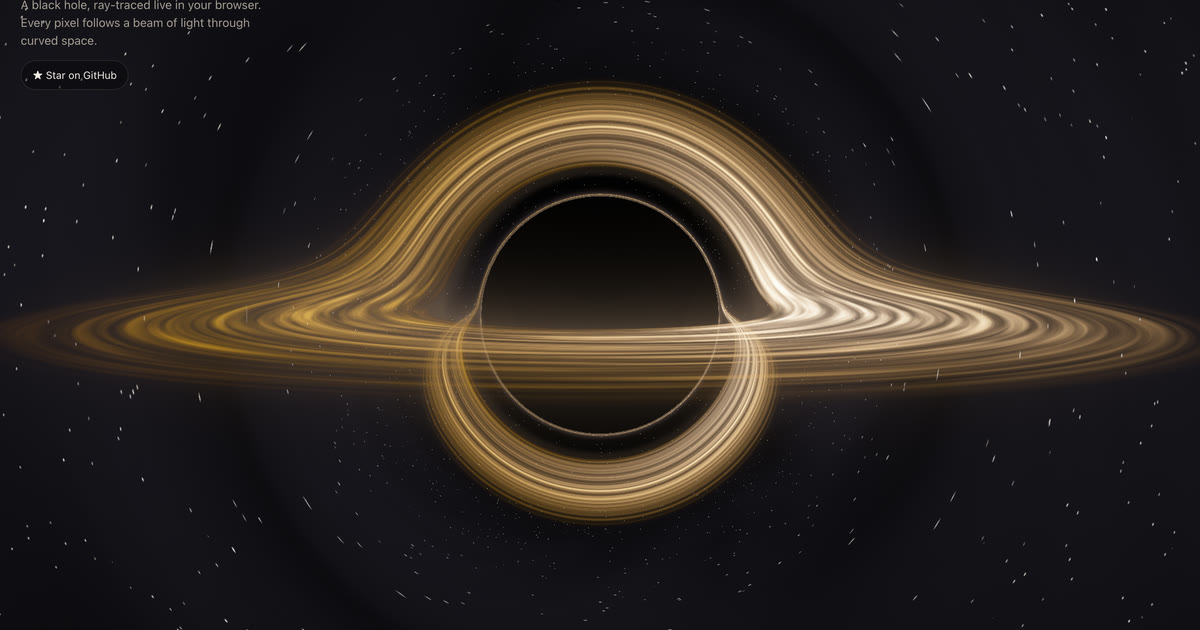
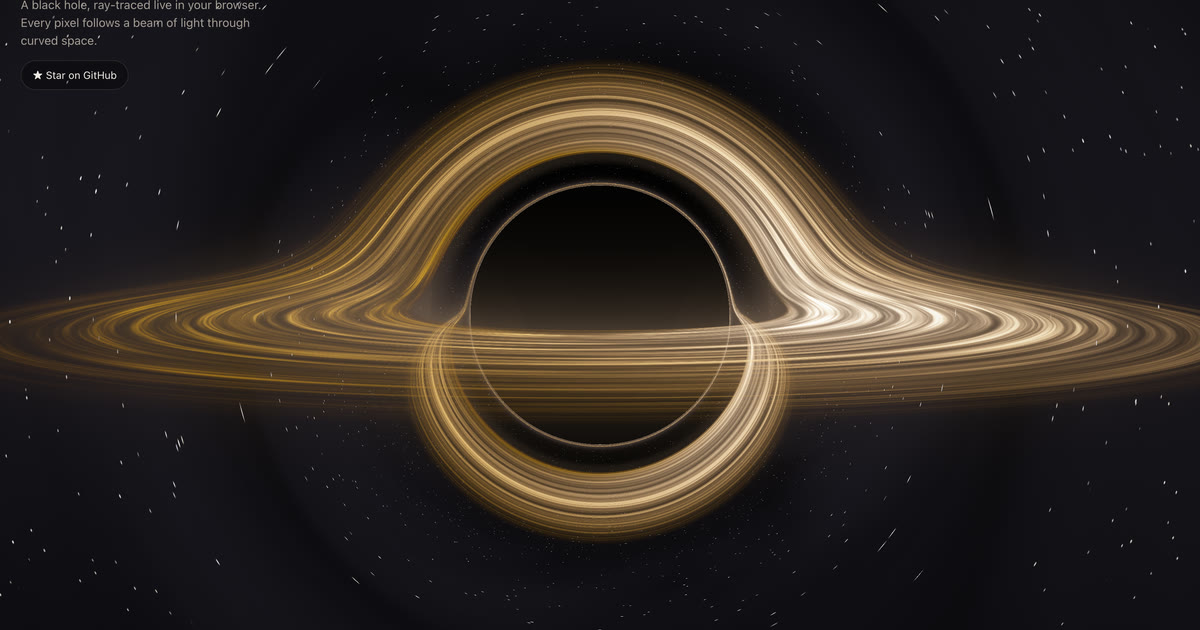
Native Retina resolution (3024x1890 on a 1512-wide MacBook) and fine gas filaments in the sharp image; demo busts the script cache; full-resolution hero still in the README

Changed region(s): [[0.0, 0.0905, 1.0, 0.8746]]

diff --git a/black-hole.js b/black-hole.js
@@ -52,7 +52,15 @@
     '  vec2 q = vec2(cos(a), sin(a)) * 1.25 + vec2(r * 3.1, r * -1.9) + band * 3.17;',
     '  float n = fbm(q);',
     '  float clump = noise(vec2(cos(a), sin(a)) * 2.6 + band * 1.9 + 40.0);',
-    '  return smoothstep(0.18, 0.95, n) * (0.55 + 1.3 * clump);',
+    '  float t = smoothstep(0.18, 0.95, n) * (0.55 + 1.3 * clump);',
+    '#ifdef FINE',
+    // fine filaments: thin streaks along the orbit, sharp gaps between them, and grain across them
+    '  float fil = noise(vec2(cos(a), sin(a)) * 3.0 + vec2(r * 22.0, r * -14.0) + band * 5.3);',
+    '  fil = smoothstep(0.35, 0.75, fil);',
+    '  float grain = noise(vec2(cos(a), sin(a)) * 9.0 + vec2(r * 40.0, 0.0));',
+    '  t *= 0.55 + 0.75 * fil + 0.25 * grain;',
+    '#endif',
+    '  return t;',
     '}',
     'float diskEdge(float r) { return smoothstep(uInner, uInner * 1.06, r) * (1.0 - smoothstep(uOuter * 0.62, uOuter, r)); }',
     // relativistic beaming for gas on a circular orbit at p, seen along ray direction dir: Doppler x gravitational redshift
@@ -168,7 +176,7 @@
     '\n  o0 = vec4(hA, hC.x);\n  o1 = vec4(hB, hC.y);\n  o2 = escaped ? vec4(normalize(vel), 1.0) : vec4(0.0);\n  o3 = vec4(haze, escaped ? ring : 0.0, hC.z, 0.0);\n}';
 
   // the per-frame shade of the stored paths: cheap, at full resolution, crossfading in from the live image
-  var SHADE_FRAG = '#version 300 es\nprecision highp float;\nout vec4 fragColor;\n' + COMMON +
+  var SHADE_FRAG = '#version 300 es\nprecision highp float;\nout vec4 fragColor;\n#define FINE\n' + COMMON +
     '\nuniform sampler2D g0, g1, g2, g3, uLive;\nuniform vec2 uRes;\nuniform float uGlow, uExposure, uFade, uPx;\nvoid main() {\n' +
     '  ivec2 p = ivec2(gl_FragCoord.xy);\n  vec4 a = texelFetch(g0, p, 0), b = texelFetch(g1, p, 0), s = texelFetch(g2, p, 0), c = texelFetch(g3, p, 0);\n' +
     '  vec3 col = vec3(0.0); float trans = 1.0;\n' +
@@ -197,9 +205,9 @@
   // live: pixels traced per frame while the camera moves (any screen density). full: the sharp image's pixel cap.
   // strip: pixels of the sharp image traced per frame, so refining never stalls a frame.
   var QUALITY = {
-    low: { live: 110000, steps: 150, full: 900000, strip: 70000 },
-    medium: { live: 230000, steps: 210, full: 2600000, strip: 140000 },
-    high: { live: 300000, steps: 260, full: 4600000, strip: 180000 }
+    low: { live: 110000, steps: 150, full: 1600000, strip: 90000 },
+    medium: { live: 230000, steps: 210, full: 6000000, strip: 200000 },
+    high: { live: 300000, steps: 260, full: 9000000, strip: 240000 }
   };
   var RAD = Math.PI / 180;
 

diff --git a/index.html b/index.html
@@ -94,7 +94,7 @@
 
   <div class="embed" id="embed" role="status"></div>
 
-  <script src="black-hole.js"></script>
+  <script src="black-hole.js?v=1.2.0"></script>
   <script>
     (function () {
       var bh = document.getElementById('bh');

diff --git a/README.md b/README.md
@@ -3,6 +3,10 @@
 <p align="center"><b>A black hole, ray-traced live in your browser. One HTML tag, zero dependencies.</b></p>
 
 <p align="center">
+  <a href="https://milesgurule-png.github.io/event-horizon/"><img src="media/hero.jpg" width="100%" alt="A black hole rendered at full Retina resolution: a golden accretion disk, its far side bent up over the black shadow by gravity"></a>
+</p>
+
+<p align="center">
   <a href="https://milesgurule-png.github.io/event-horizon/"><img src="media/dive.gif" width="720" alt="Diving toward a ray-traced black hole: the accretion disk's far side bends up over the black shadow as the camera falls in"></a>
 </p>
 
@@ -27,9 +31,9 @@ the disk, seen through light that gravity has bent around the hole. They fall ou
 - **One tag:** a standard web component. Works in plain HTML, React, Vue, Svelte, anything.
 - **Small:** one 29 KB file (10 KB gzipped), no dependencies, no build step.
 - **Sharp at full resolution, and fast:** the bent light paths only depend on where the camera is, so when the camera
-  holds still they're traced once at full screen resolution (a strip at a time, about half a second) and every frame
-  after that just re-shades the moving gas and stars. A full Retina image costs about 3 ms of GPU time per frame on an
-  M-series MacBook. While you drag or dive, a fast live tracer takes over and the image re-sharpens when you stop.
+  holds still they're traced once at your screen's native resolution (a strip at a time, under a second) and every frame
+  after that just re-shades the moving gas and stars, fine filaments included. A native Retina image (3024x1890) costs
+  about 5 ms of GPU time per frame on an M-series MacBook. While you drag or dive, a fast live tracer takes over and the image re-sharpens when you stop.
 - **Polite:** only renders while it's on screen, pauses in background tabs, shows a still frame for people who prefer
   reduced motion, and falls back to a CSS glow without WebGL.
 
@@ -125,8 +129,8 @@ which is how the far side of the disk appears both above and below the shadow.
 Tracing a light path costs hundreds of steps, but where a path goes depends only on the camera, not on time. So the
 component has two modes:
 
-- **Still camera (the sharp image):** paths are traced once at full screen resolution (up to about 2.6 million pixels,
-  `quality="high"` allows more) and stored: up to three disk crossings per pixel, the direction the escaping light
+- **Still camera (the sharp image):** paths are traced once at full screen resolution (native resolution up to about 6 million pixels,
+  `quality="high"` allows 9 million) and stored: up to three disk crossings per pixel, the direction the escaping light
   leaves in, and the glow it gathered. This is done a strip per frame so nothing ever stalls. After that, each frame only
   re-shades the turning gas and the stars from the stored paths, which is cheap.
 - **Moving camera:** a live tracer runs at a fixed pixel budget (about 230,000 pixels) and is scaled up, then the sharp
